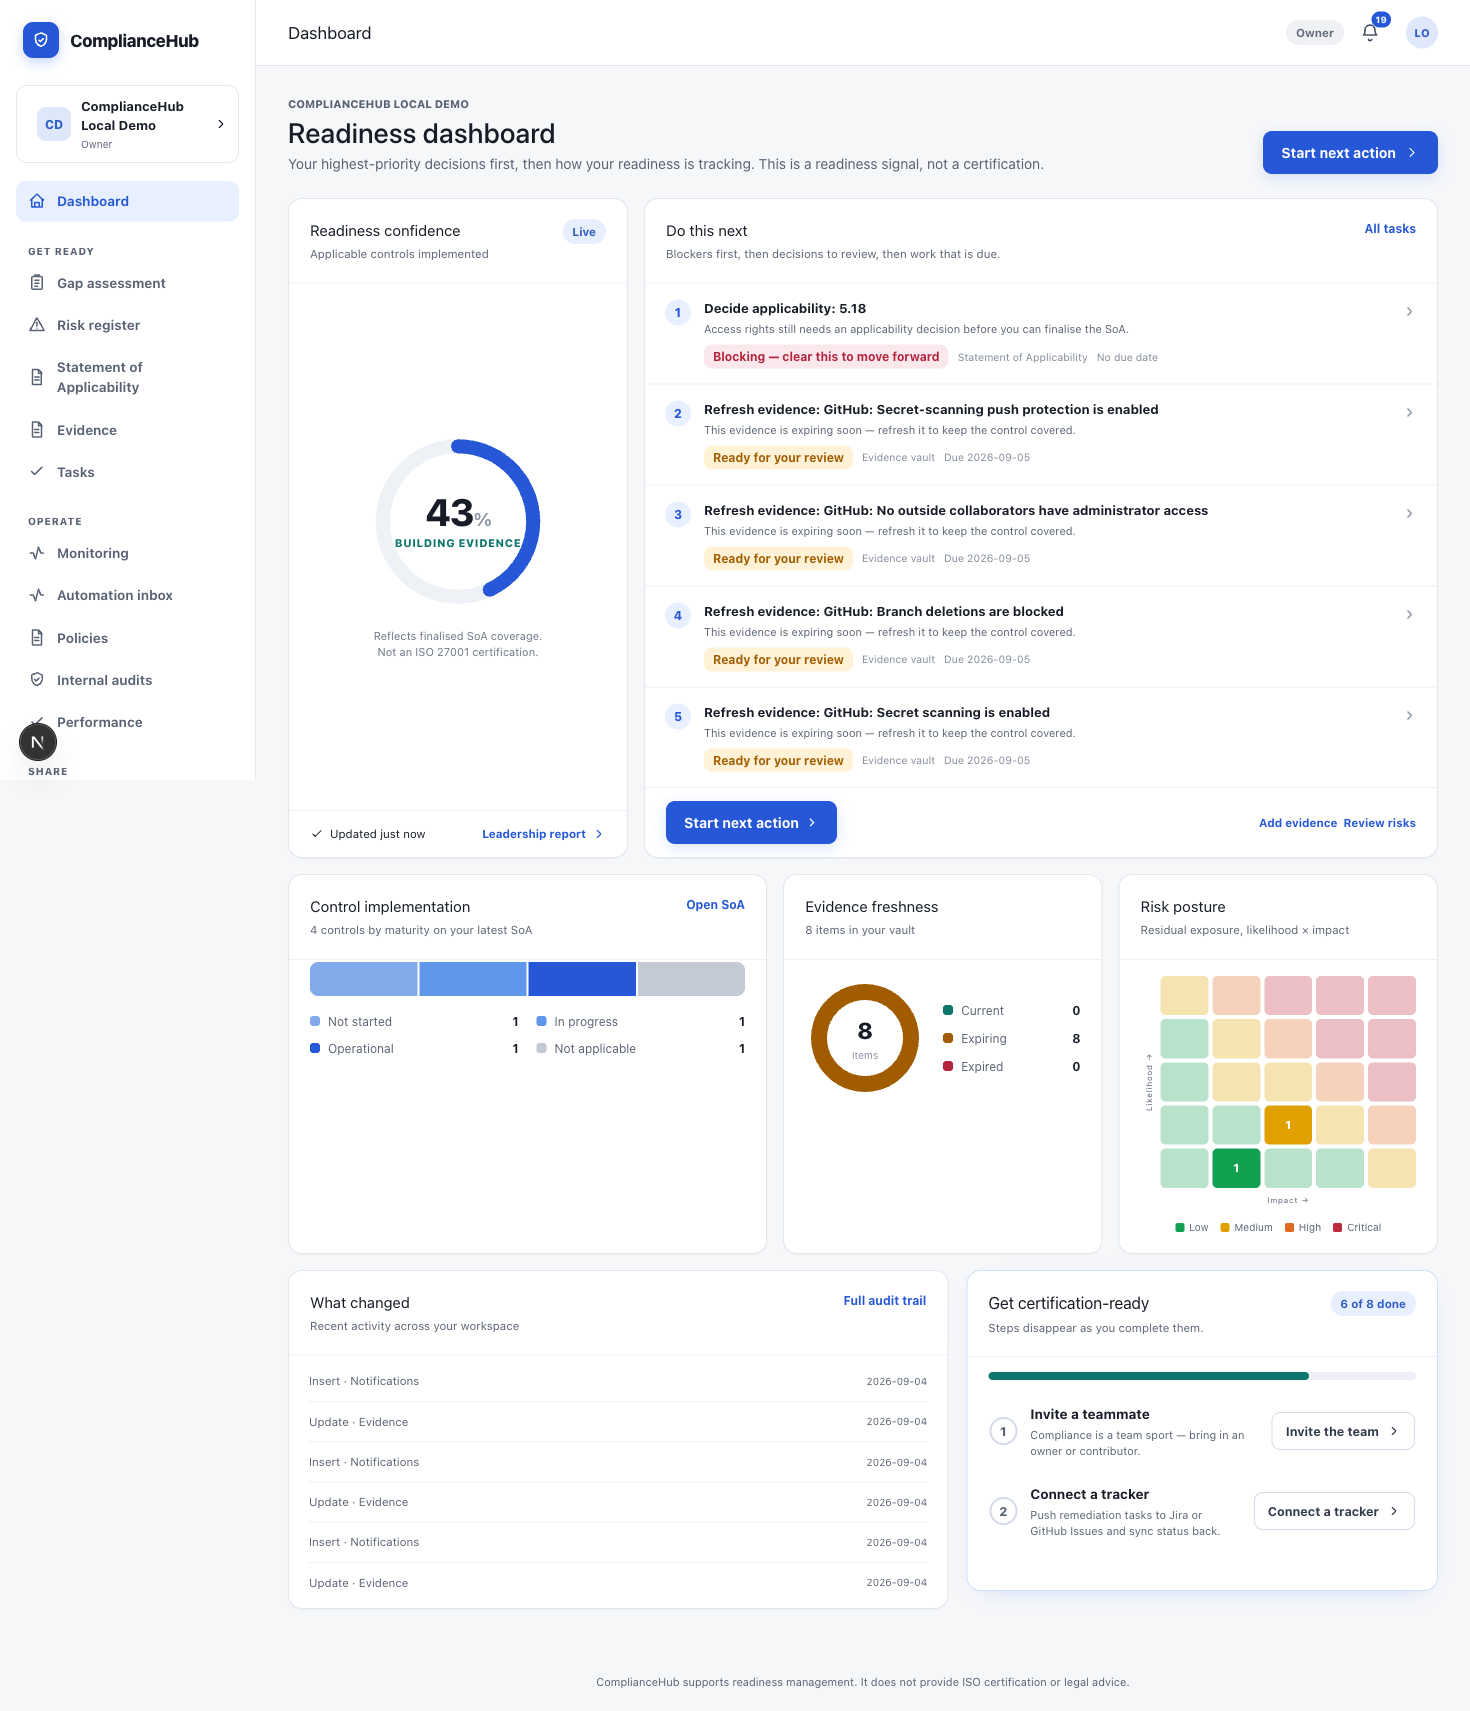
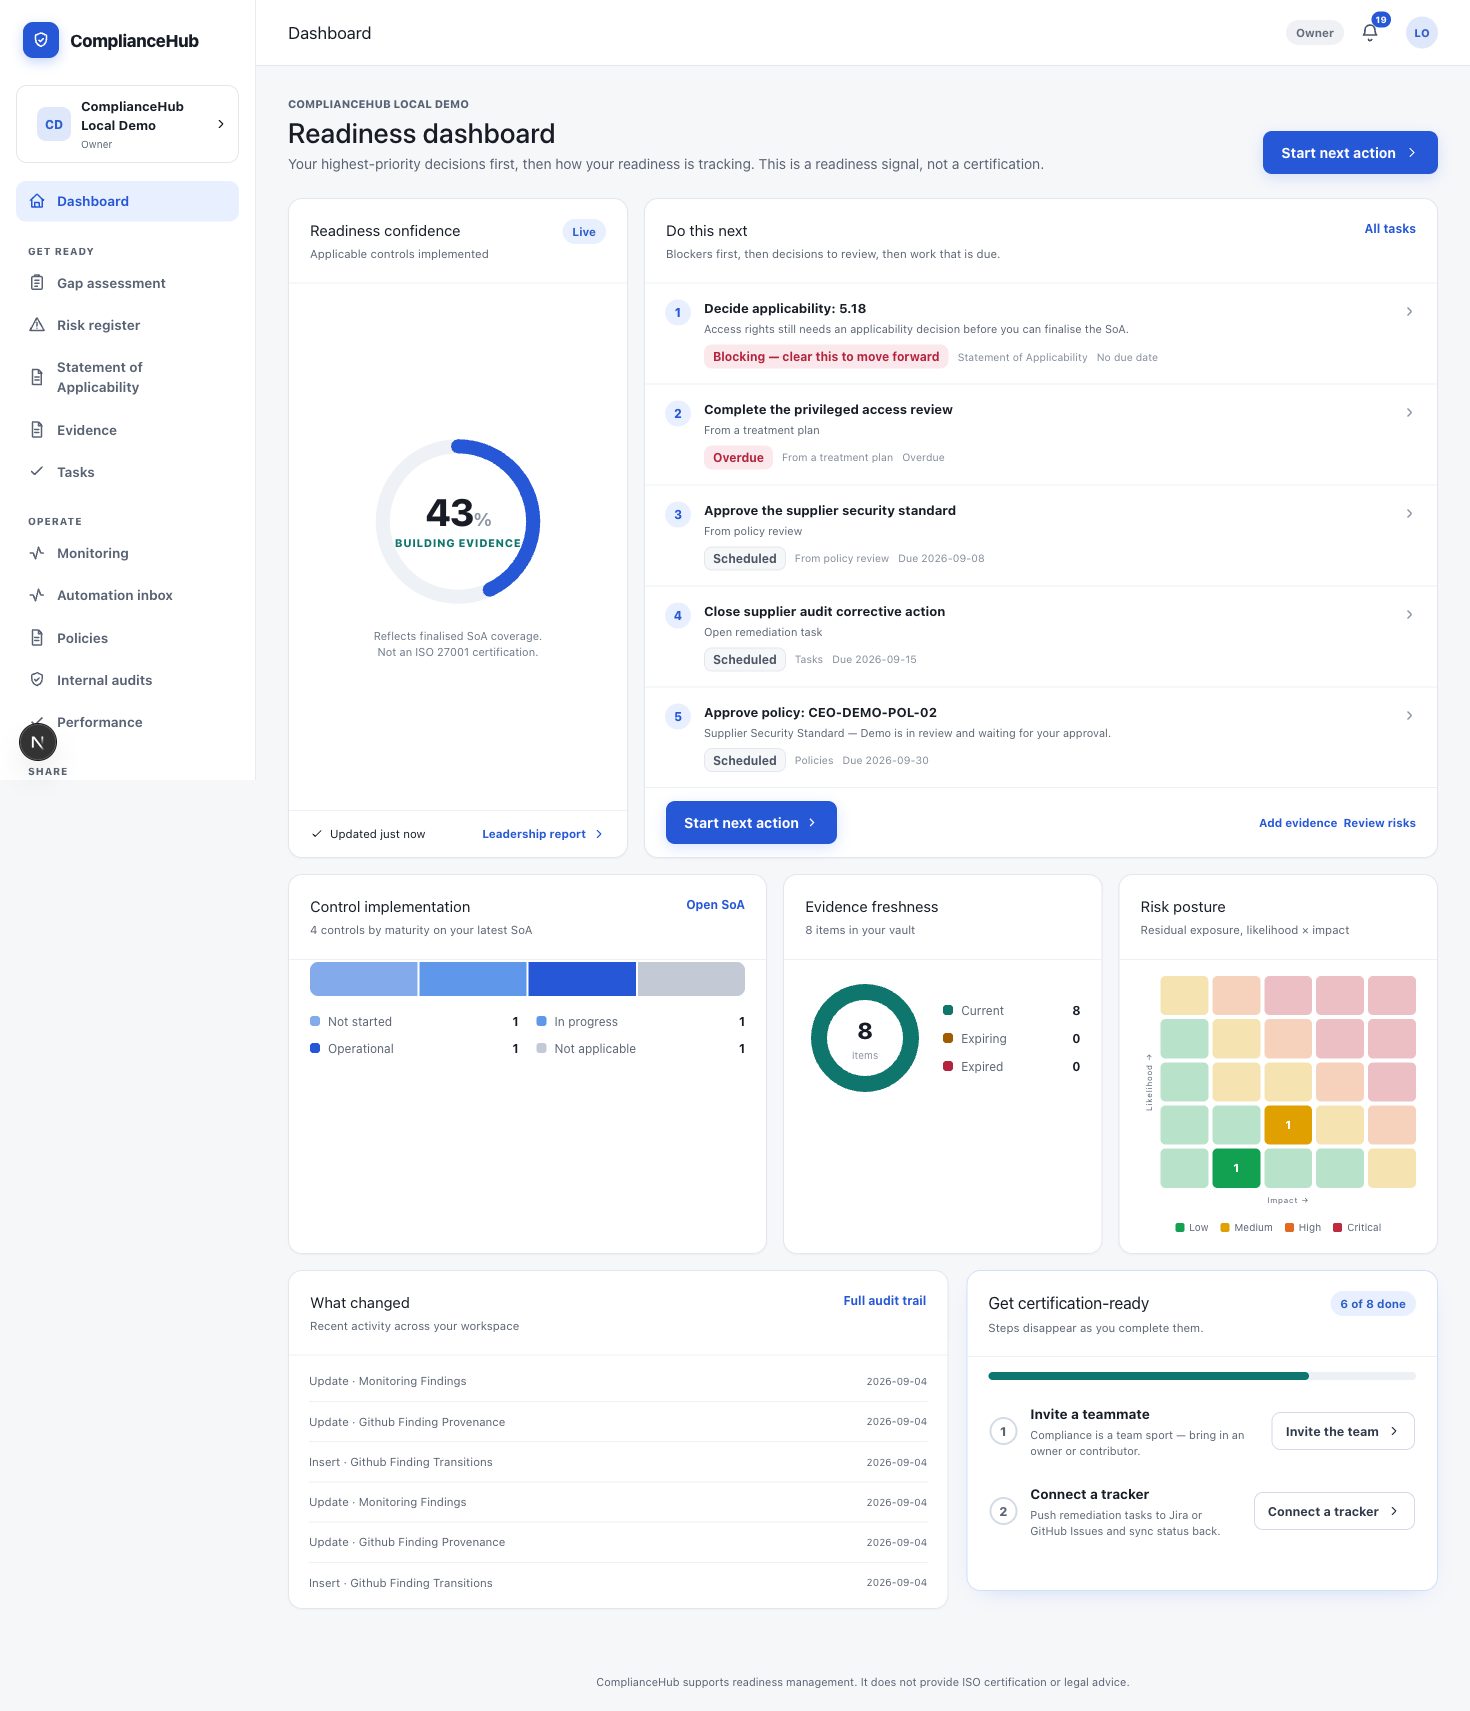
docs(demo): capture final live GitHub proof

diff --git a/docs/evidence/phase3-direct-mcp-live-2026-09-04.md b/docs/evidence/phase3-direct-mcp-live-2026-09-04.md
@@ -93,30 +93,33 @@ evidence artifact.
 
 ## Final fresh-scan proof
 
-A second real read-only collection was run against the installed
+A final real read-only collection was run from the visible **Check GitHub now**
+button against the installed
 `compliancehub-mukta-local-pilot` GitHub App and the selected
 `mukta2701/ComplianceHub` repository. The scanner checked one installation and
 one repository, stored 15 observations, and completed with no repository
-failure or deferred repository. Protected GitHub state had the same SHA before
-and after the collection.
+failure or deferred repository. The page confirmed, "GitHub check finished.
+Monitoring status is refreshed." A controlled repeatability run of the same
+scanner separately proved that protected GitHub state had the same SHA before
+and after collection.
 
 The newest official result set contains exactly 15 checks: eight pass, five
-fail, and two unknown. It is current through 5 September 2026 at 15:43 BST.
-The historical evidence lineage contains eight current records and eight
+fail, and two unknown. It is current through 5 September 2026 at 16:07 BST.
+The historical evidence lineage contains eight current records and 16
 superseded records. Obsolete machine-evidence replacement tasks have zero open
 records; the eight older tasks are cancelled with audit history retained.
 
 A new non-interactive Codex process then read that newest generation through
 the MCP and exited successfully with:
 
-`FRESH_GITHUB_MCP_OK total=15 pass=8 fail=5 unknown=2`
+`FINAL_FRESH_GITHUB_MCP_OK total=15 pass=8 fail=5 unknown=2`
 
 All seven read-only tools are approved for non-interactive local use. The
 write-capable digest tool remains disabled.
 
 ## Final verification gate
 
-- Application: 240 test files, 2,071 tests passed, 3 intentionally skipped.
+- Application: 241 test files, 2,073 tests passed, 3 intentionally skipped.
 - Database: 90 files, 1,888 tests passed.
 - Live integrations: 3 files, 6 tests passed against local Supabase.
 - Lint, TypeScript checks, and the production build passed.
